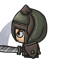
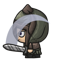
fixed animation in opponent and added special skill animations

diff --git a/files/drawing.py b/files/drawing.py
@@ -87,14 +87,38 @@ def draw_animated_hero(screen, hero, tile, frame_counter, total_frames):
     draw_health_bar(screen, hero, hero_coordinate)
 
 
-def draw_attacking_hero_animation(screen, hero, tile, frame_counter, total_frames):
+def draw_attacking_hero_animation(screen, hero, tile, frame_counter, total_frames, type_of_attack):
     current_image_counter = total_frames - frame_counter
-    if current_image_counter < 10:
-        current_hero_image = hero_images[hero.stats["NAME"]]["attacking"][hero.side] + \
-                             "0" + str(current_image_counter) + ".png"
-    else:
-        current_hero_image = hero_images[hero.stats["NAME"]]["attacking"][hero.side] + \
-                             str(current_image_counter) + ".png"
+    if type_of_attack == "basic":
+        if current_image_counter < 10:
+            current_hero_image = hero_images[hero.stats["NAME"]]["attacking"][hero.side] + \
+                                 "0" + str(current_image_counter) + ".png"
+        else:
+            current_hero_image = hero_images[hero.stats["NAME"]]["attacking"][hero.side] + \
+                                 str(current_image_counter) + ".png"
+        # hero_image = pg.image.load(load_image(current_hero_image))
+        # tile_coordinates = coordinate(tile)
+        # screen.blit(hero_image, tile_coordinates)
+        # draw_health_bar(screen, hero, tile_coordinates)
+    elif type_of_attack == "special":
+        if current_image_counter < 10:
+            current_hero_image = hero_images[hero.stats["NAME"]]["special_attack"] + \
+                                 str(current_image_counter) + ".png"
+        else:
+            current_hero_image = hero_images[hero.stats["NAME"]]["special_attack"] + \
+                                 str(current_image_counter) + ".png"
+        # hero_image = pg.image.load(load_image(current_hero_image))
+        # tile_coordinates = coordinate(tile)
+        # screen.blit(hero_image, tile_coordinates)
+        # draw_health_bar(screen, hero, tile_coordinates)
+    elif type_of_attack == "special_opponents":
+        if current_image_counter < 10:
+            current_hero_image = hero_images[hero.stats["NAME"]]["special_lightning"] + \
+                                 str(current_image_counter) + ".png"
+        else:
+            current_hero_image = hero_images[hero.stats["NAME"]]["special_lightning"] + \
+                                 str(current_image_counter) + ".png"
+
     hero_image = pg.image.load(load_image(current_hero_image))
     tile_coordinates = coordinate(tile)
     screen.blit(hero_image, tile_coordinates)
@@ -102,6 +126,21 @@ def draw_attacking_hero_animation(screen, hero, tile, frame_counter, total_frame
 
 
 def draw_heroes(screen, player):
+    # heroes_not_to_draw = []
+    # if player.special_attack:
+    #     for heroes in player.attacked_with_special: # zmienic na przypisywanie z player.heroes[hero_id]
+    #         heroes_not_to_draw.append(heroes)
+    # if player.attacking_hero:
+    #     heroes_not_to_draw.append(player.attacking_hero)
+    # if player.moved_hero:
+    #     heroes_not_to_draw.append(player.moved_hero)
+    #
+    # for hero in player.heroes:
+    #     if hero is not None:
+    #         # if hero is not player.moved_hero and hero is not player.attacking_hero:
+    #         if hero not in heroes_not_to_draw:
+    #             draw_hero(screen, hero, hero.pos)
+
     for hero in player.heroes:
         if hero is not None:
             if hero is not player.moved_hero and hero is not player.attacking_hero:
@@ -151,17 +190,45 @@ def draw_with_animation_hero(screen, board, player, opponent, player_turn, actua
 def draw_attacking_hero(screen, board, player, opponent, player_turn, actual_pos):
     mage = False
     healer = False
-    if player.attacking_hero.stats["NAME"] == "MAGE":
-        animation_counter, total_frames = 8, 8
-        mage = True
-    if player.attacking_hero.stats["NAME"] == "HEALER":
-        animation_counter, total_frames = 29, 29
-        healer = True
-    else:
-        animation_counter, total_frames = 14, 14
+    animation_counter, total_frames = 0, 0
+    opp_animation_counter, opp_total_frames = 0, 0
+
+    if player.special_attack:
+        if player.special_attack.stats["NAME"] == "MAGE":
+            animation_counter, total_frames = 4, 4
+            opp_animation_counter, opp_total_frames = 8, 8
+        elif player.special_attack.stats["NAME"] == "HEALER":
+            animation_counter, total_frames = 6, 6
+
+    if player.attacking_hero:
+        if player.attacking_hero.stats["NAME"] == "MAGE":
+            animation_counter, total_frames = 8, 8
+            mage = True
+        elif player.attacking_hero.stats["NAME"] == "HEALER":
+            animation_counter, total_frames = 29, 29
+            healer = True
+        else:
+            animation_counter, total_frames = 14, 14
+
     while animation_counter >= 0:
         draw_background(screen, board, player, opponent, player_turn, actual_pos)
-        draw_attacking_hero_animation(screen, player.attacking_hero, actual_pos, animation_counter, total_frames)
+        if player.attacking_hero:
+            which_attack = "basic"
+            draw_attacking_hero_animation(screen, player.attacking_hero, actual_pos, animation_counter, total_frames, which_attack)
+        else:
+            which_attack = "special"
+            if player.special_attack.stats["NAME"] == "HEALER":
+                draw_attacking_hero_animation(screen, player.special_attack, actual_pos, animation_counter, total_frames, which_attack)
+            elif player.special_attack.stats["NAME"] == "MAGE":
+                draw_attacking_hero_animation(screen, player.special_attack, actual_pos, animation_counter,
+                                              total_frames, which_attack)
+                which_attack = "special_opponents"
+                for heroes in player.attacked_with_special:
+                    draw_attacking_hero_animation(screen, heroes, heroes.pos, opp_animation_counter,
+                                                  opp_total_frames, which_attack)
+                    pg.time.delay(5)
+            else:
+                draw_attacking_hero_animation(screen, player.special_attack, actual_pos, animation_counter, total_frames, which_attack)
         pg.display.update()
         if mage:
             pg.time.delay(30)
@@ -189,17 +256,41 @@ def redraw_window(screen, board, player, opponent, player_turn, actual_pos, n):
         opponent.moved_hero = None
         n.send(["update_opponent", player.player_id, opponent])
         made_move = True
+    if player.special_attack:
+        draw_attacking_hero(screen, board, player, opponent, player_turn, player.special_attack.pos)
+        player.special_attack = None
+        player.attacked_with_special = None
+    if opponent.special_attack:
+        draw_attacking_hero(screen, board, opponent, player, player_turn, opponent.special_attack.pos)
+        opponent.special_attack = None
+        opponent.attacked_with_special = None
+        n.send(["update_opponent", player.player_id, opponent])
     if player.attacking_hero:
         if player.attacked_hero.pos[0] > player.attacking_hero.pos[0]:
-            player.heroes[player.attacking_hero.hero_id].side = "east"
+            player.attacking_hero.side = "east"
         if player.attacked_hero.pos[0] < player.attacking_hero.pos[0]:
-            player.heroes[player.attacking_hero.hero_id].side = "west"
+            player.attacking_hero.side = "west"
         if player.attacked_hero.pos[1] > player.attacking_hero.pos[1]:
-            player.heroes[player.attacking_hero.hero_id].side = "south"
+            player.attacking_hero.side = "south"
         if player.attacked_hero.pos[1] < player.attacking_hero.pos[1]:
-            player.heroes[player.attacking_hero.hero_id].side = "north"
+            player.attacking_hero.side = "north"
+        player.heroes[player.attacking_hero.hero_id].side = player.attacking_hero.side
         draw_attacking_hero(screen, board, player, opponent, player_turn, player.attacking_hero.pos)
         player.attacking_hero = None
+    if opponent.attacking_hero:
+        if opponent.attacked_hero.pos[0] > opponent.attacking_hero.pos[0]:
+            opponent.attacking_hero.side = "east"
+        if opponent.attacked_hero.pos[0] < opponent.attacking_hero.pos[0]:
+            opponent.attacking_hero.side = "west"
+        if opponent.attacked_hero.pos[1] > opponent.attacking_hero.pos[1]:
+            opponent.attacking_hero.side = "south"
+        if opponent.attacked_hero.pos[1] < opponent.attacking_hero.pos[1]:
+            opponent.attacking_hero.side = "north"
+        opponent.heroes[opponent.attacking_hero.hero_id].side = opponent.attacking_hero.side
+        draw_attacking_hero(screen, board, opponent, player, player_turn, opponent.attacking_hero.pos)
+        opponent.attacking_hero = None
+        n.send(["update_opponent", player.player_id, opponent])
+        made_move = True
     else:
         draw_background(screen, board, player, opponent, player_turn, actual_pos)
         pg.display.update()

diff --git a/files/settings.py b/files/settings.py
@@ -58,23 +58,25 @@ backgrounds = {
 
 hero_images = {
     "HEALER": {
-            "north": "HEALER/north.png",
-            "south": "HEALER/south.png",
-            "east": "HEALER/east.png",
-            "west": "HEALER/west.png",
-            "death": "HEALER/death.png",
-            "walking": {
-                "east": "HEALER/healer_walking/right_walking/0_Astrologer_Walk_0",
-                "west": "HEALER/healer_walking/left_walking/0_Astrologer_Walk_0",
-                "south": "HEALER/healer_walking/front_walking/0_Astrologer_Walk_0",
-                "north": "HEALER/healer_walking/back_walking/0_Astrologer_Walk_0"
-            },
-            "attacking": {
-                "east": "HEALER/healer_attacking/right_attacking/0_astrologer_Attack_0",
-                "west": "HEALER/healer_attacking/left_attacking/0_astrologer_Attack_0",
-                "south": "HEALER/healer_attacking/front_attacking/0_astrologer_Attack_0",
-                "north": "HEALER/healer_attacking/back_attacking/0_astrologer_Attack_0"
-        }
+        "north": "HEALER/north.png",
+        "south": "HEALER/south.png",
+        "east": "HEALER/east.png",
+        "west": "HEALER/west.png",
+        "death": "HEALER/death.png",
+        "walking": {
+            "east": "HEALER/healer_walking/right_walking/0_Astrologer_Walk_0",
+            "west": "HEALER/healer_walking/left_walking/0_Astrologer_Walk_0",
+            "south": "HEALER/healer_walking/front_walking/0_Astrologer_Walk_0",
+            "north": "HEALER/healer_walking/back_walking/0_Astrologer_Walk_0"
+        },
+        "attacking": {
+            "east": "HEALER/healer_attacking/right_attacking/0_astrologer_Attack_0",
+            "west": "HEALER/healer_attacking/left_attacking/0_astrologer_Attack_0",
+            "south": "HEALER/healer_attacking/front_attacking/0_astrologer_Attack_0",
+            "north": "HEALER/healer_attacking/back_attacking/0_astrologer_Attack_0"
+        },
+        "special_attack": "HEALER/special_attack/heal/",
+        "special_lightning": "MAGE/special_attack/get_lightning/"
     },
     "MAGE": {
         "north": "MAGE/north.png",
@@ -93,7 +95,10 @@ hero_images = {
             "west": "MAGE/mage_attacking/left_attacking/0_mage_Attack_0",
             "south": "MAGE/mage_attacking/front_attacking/0_mage_Attack_0",
             "north": "MAGE/mage_attacking/back_attacking/0_mage_Attack_0"
-        }
+        },
+        "special_attack": "MAGE/special_attack/lighting/",
+        "special_lightning": "MAGE/special_attack/get_lightning/"
+        # "special_attack": "MAGE/special_attack/01/"
     },
     "WARRIOR": {
         "north": "WARRIOR/north.png",
@@ -112,7 +117,8 @@ hero_images = {
             "west": "WARRIOR/warrior_attacking/left_attacking/0_warrior_Attack_0",
             "south": "WARRIOR/warrior_attacking/front_attacking/0_warrior_Attack_0",
             "north": "WARRIOR/warrior_attacking/back_attacking/0_warrior_Attack_0"
-        }
+        },
+        "special_lightning": "MAGE/special_attack/get_lightning/"
     },
     "ARCHER": {
         "north": "ARCHER/north.png",
@@ -131,7 +137,8 @@ hero_images = {
             "west": "ARCHER/archer_attacking/left_attacking/0_archer_Attack_0",
             "south": "ARCHER/archer_attacking/front_attacking/0_archer_Attack_0",
             "north": "ARCHER/archer_attacking/back_attacking/0_archer_Attack_0"
-        }
+        },
+        "special_lightning": "MAGE/special_attack/get_lightning/"
     }
 }
 

diff --git a/files/hero.py b/files/hero.py
@@ -59,10 +59,13 @@ class Hero(ABC):
             attacking_hero = self
             player.attacking_hero = self # change from attacking animation
             player.attacked_hero = attacked_hero # sides update
+            # opponent.attacking_hero = self # new change
+            # opponent.attacked_hero = attacked_hero # new change
             lose_hp = -attacking_hero.stats["ATTACK"] + attacked_hero.stats["DEFENSE"]/2
             attacked_hero = update_stats(attacked_hero, lose_hp)
             opponent.heroes[attacked_hero.hero_id] = attacked_hero
             player.last_action = ["basic_attack", attacking_hero, attacked_hero]
+            # player.last_action = ["basic_attack", player.attacking_hero, player.attacked_hero]
             return["basic_attack", player.player_id, player.last_action]
         return False
 
@@ -91,10 +94,14 @@ class Healer(Hero):
     def special_skill(self, *args):
         player, opponent, object_tiles, clicked_pos = args
         hero_to_heal = player.clicked_own_hero(clicked_pos)
+        player.attacked_with_special = hero_to_heal
         if hero_to_heal and self.in_range_of_skill(clicked_pos):
             hero_to_heal = update_stats(hero_to_heal, self.healing)
+            healing_hero = self
+            player.special_attack = self  # update_sp
             player.heroes[hero_to_heal.hero_id] = hero_to_heal
-            return ["heal", player.player_id, hero_to_heal]
+            player.last_action = ["heal", healing_hero, hero_to_heal] # animation
+            return ["heal", player.player_id, player.last_action]
         else:
             return False
 
@@ -110,13 +117,21 @@ class Mage(Hero):
     def special_skill(self, *args):
         player, opponent, object_tiles, clicked_pos = args
         heroes_to_attack = [player.clicked_opp_hero(opponent, clicked_pos)]
+        player.attacked_with_special = [player.clicked_opp_hero(opponent, clicked_pos)]
         if player.clicked_opp_hero(opponent, clicked_pos) and self.in_range_of_skill(clicked_pos):
             if len(opponent.heroes) > 1:
-                heroes_to_attack.append(random.choice(opponent.heroes))
+                # which_hero = 1
+                random_opponent = random.choice(opponent.heroes)
+                heroes_to_attack.append(random_opponent)
+                player.attacked_with_special.append(random_opponent)
+                # heroes_to_attack.append(random.choice(opponent.heroes))
+                # player.attacked_with_special.append(heroes_to_attack[which_hero])
+                # which_hero += 1
                 heroes_to_attack = list(map(self.randomize_damage, heroes_to_attack))
             else:
                 heroes_to_attack[0] = self.randomize_damage(heroes_to_attack[0])
             attacking_hero = player.clicked_hero
+            player.special_attack = attacking_hero # update_sp
             player.last_action = ["random_spell", attacking_hero, heroes_to_attack]
             return ["random_spell", player.player_id, player.last_action]
         else:

diff --git a/files/server.py b/files/server.py
@@ -109,17 +109,30 @@ class ThreadedClient:
         self.game.players[self.data[1]].last_action = last_action
         for attacked_hero in attacked_heroes:
             self.game.players[abs(self.data[1] - 1)].heroes[attacked_hero.hero_id] = attacked_hero
+        self.game.players[self.data[1]].special_attack = last_action[1]  # animation special
+        self.game.players[self.data[1]].attacked_with_special = attacked_heroes  # animation special
         self.game.get_next_turn()
 
     def attack(self):
         last_action = self.data[2]
         attacked_hero = last_action[2]
+        attacking_hero = last_action[1] # animation
         self.game.players[self.data[1]].last_action = last_action
         self.game.players[abs(self.data[1] - 1)].heroes[attacked_hero.hero_id] = attacked_hero
+        # self.game.players[abs(self.data[1] - 1)].attacking_hero = attacking_hero # animation
+        # self.game.players[abs(self.data[1] - 1)].attacked_hero = attacked_hero  # animation
+        self.game.players[self.data[1]].attacking_hero = attacking_hero  # animation
+        self.game.players[self.data[1]].attacked_hero = attacked_hero  # animation
+        # self.game.players[self.data[1]].special_attack = special_attack  # animation special
+        # self.game.players[self.data[1]].attacked_with_special = attacked_with_special  # animation special
         self.game.get_next_turn()
 
     def heal(self):
-        hero_to_heal = self.data[2]
+        last_action = self.data[2]
+        hero_to_heal = last_action[1]
+        healing_hero = last_action[2]
+        # self.game.players[self.data[1]].special_attack = healing_hero  # animation special
+        # self.game.players[self.data[1]].attacked_with_special = hero_to_heal  # animation special
         self.game.players[self.data[1]].heroes[hero_to_heal.hero_id] = hero_to_heal
         self.game.get_next_turn()
 

diff --git a/files/player.py b/files/player.py
@@ -12,7 +12,9 @@ class Player:
         self.clicked_hero = None
         self.moved_hero = None
         self.attacking_hero = None
-        self.attacked_hero = None # sides update
+        self.attacked_hero = None
+        self.special_attack = None # update_sp
+        self.attacked_with_special = None
         self.last_action = []
         self.result = ""
 
